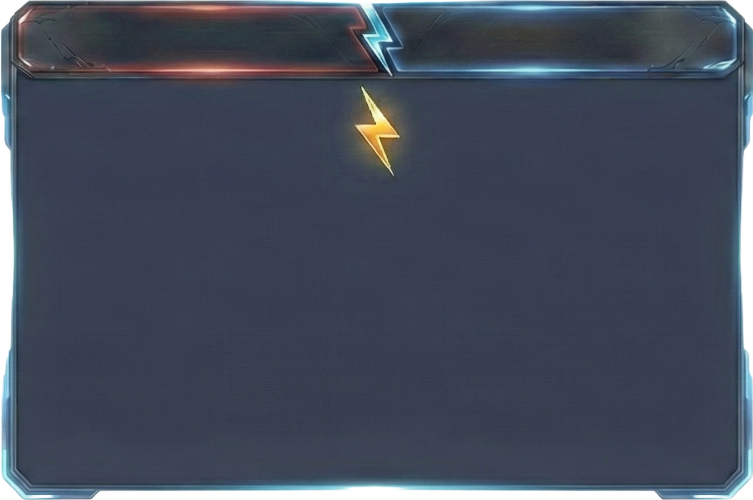
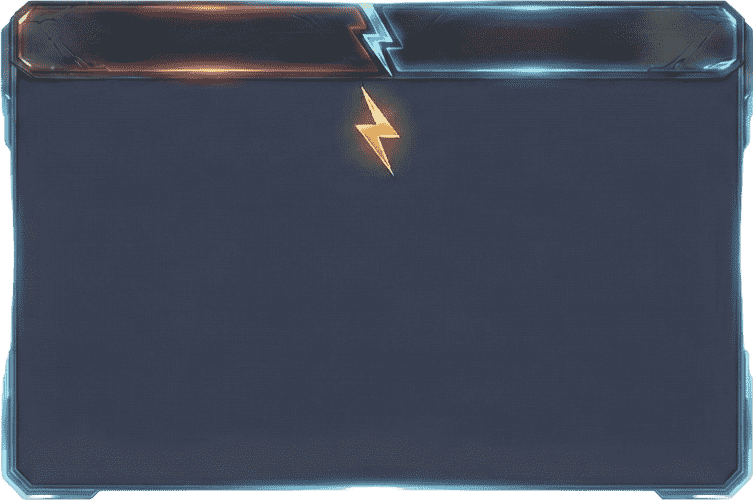
结果页继续美化

diff --git a/src/scenes/ResultScene.js b/src/scenes/ResultScene.js
@@ -59,7 +59,7 @@ export default class ResultScene extends BaseScene {
         AccountMgr.sync();
 
         // 2. 视觉构建
-        // A. 动态背景
+        // A. 动态背景 (使用胜/负专属球场图)
         this.createAtmosphere(designWidth, designHeight, isWin);
 
         // B. 主面板容器 (居中)
@@ -74,7 +74,7 @@ export default class ResultScene extends BaseScene {
         // D. 标题 (在面板上方)
         this.createHeader(designWidth, 120, isWin, winner);
 
-        // E. 星级 (在标题下方，面板上方)
+        // E. 星级 (在标题下方，面板上方，使用图片素材)
         this.createRatingStars(0, -370, rating); 
 
         // F. 数据统计与头部 (都在面板内部)
@@ -89,7 +89,7 @@ export default class ResultScene extends BaseScene {
             this.createRewards(0, rewardY, rewardCoins);
         }
 
-        // H. 按钮
+        // H. 按钮 (使用图片素材)
         this.createButtons(designWidth, designHeight, isWin);
 
         // I. 胜利特效
@@ -101,14 +101,43 @@ export default class ResultScene extends BaseScene {
     // --- 视觉构建方法 ---
 
     createAtmosphere(w, h, isWin) {
-        // 1. 深色底图
-        const bg = new PIXI.Graphics();
-        bg.beginFill(0x111111);
-        bg.drawRect(0, 0, w, h);
-        bg.endFill();
-        this.container.addChild(bg);
+        // 1. 根据胜负选择全屏背景
+        const bgKey = isWin ? 'bg_result_victory' : 'bg_result_failed';
+        let bgTex = ResourceManager.get(bgKey);
+        
+        // 如果特定背景加载失败，尝试回退到之前的通用背景(如果有)
+        if (!bgTex) bgTex = ResourceManager.get('bg_result_field');
 
-        // 2. 放射光 (聚光灯)
+        if (bgTex) {
+            const bg = new PIXI.Sprite(bgTex);
+            bg.anchor.set(0.5);
+            bg.position.set(w / 2, h / 2);
+            
+            // Cover 模式适配：优先填满
+            // 比例取 max(屏宽/图宽, 屏高/图高)
+            const scale = Math.max(w / bg.texture.width, h / bg.texture.height);
+            bg.scale.set(scale);
+            
+            this.container.addChild(bg);
+        } else {
+            // 兜底纯色
+            const bg = new PIXI.Graphics();
+            bg.beginFill(0x1a1a1a);
+            bg.drawRect(0, 0, w, h);
+            bg.endFill();
+            this.container.addChild(bg);
+        }
+
+        // 2. 黑色遮罩 (压暗背景，让面板突出)
+        // 失败时可以让背景稍微暗一点，胜利时亮一点
+        const overlayAlpha = isWin ? 0.6 : 0.75;
+        const overlay = new PIXI.Graphics();
+        overlay.beginFill(0x000000, overlayAlpha); 
+        overlay.drawRect(0, 0, w, h);
+        overlay.endFill();
+        this.container.addChild(overlay);
+
+        // 3. 放射光 (聚光灯效果)
         const glowColor = isWin ? 0xF1C40F : 0x34495e; // 胜:金, 负:深蓝
         const glowCircle = new PIXI.Graphics();
         glowCircle.beginFill(glowColor, 0.4);
@@ -191,48 +220,61 @@ export default class ResultScene extends BaseScene {
     createRatingStars(x, y, rating) {
         const starContainer = new PIXI.Container();
         const starCount = 5;
-        const size = 45; 
+        const size = 90; // 星星显示大小
         const gap = 15;
         
         const fullStars = Math.floor(rating / 2);
         const hasHalf = (rating % 2) >= 1;
 
-        const totalW = starCount * (size * 2 + gap) - gap;
-        let startX = -totalW / 2 + size;
+        const totalW = starCount * (size + gap) - gap;
+        let startX = -totalW / 2 + size / 2;
+
+        const fullTex = ResourceManager.get('icon_star_full');
+        const halfTex = ResourceManager.get('icon_star_half');
 
         for (let i = 0; i < starCount; i++) {
-            const starX = startX + i * (size * 2 + gap);
+            const starX = startX + i * (size + gap);
             
-            const bg = this.drawStar(0x333333, size, true);
-            bg.position.set(starX, 0);
-            starContainer.addChild(bg);
+            // 1. 底图：未激活的星星 (深色)
+            if (fullTex) {
+                const bgStar = new PIXI.Sprite(fullTex);
+                bgStar.anchor.set(0.5);
+                bgStar.width = size;
+                bgStar.height = size;
+                bgStar.tint = 0x333333; // 压黑
+                bgStar.position.set(starX, 0);
+                starContainer.addChild(bgStar);
+            } else {
+                // 兜底绘制
+                const bg = new PIXI.Graphics().beginFill(0x333333).drawCircle(0,0,size/2).endFill();
+                bg.position.set(starX, 0);
+                starContainer.addChild(bg);
+            }
 
-            let fillType = 'none'; 
-            if (i < fullStars) fillType = 'full';
-            else if (i === fullStars && hasHalf) fillType = 'half';
+            // 2. 激活的星星 (金色)
+            let starSprite = null;
+            if (i < fullStars) {
+                if (fullTex) starSprite = new PIXI.Sprite(fullTex);
+            } else if (i === fullStars && hasHalf) {
+                if (halfTex) starSprite = new PIXI.Sprite(halfTex);
+            }
 
-            if (fillType !== 'none') {
-                const fill = this.drawStar(0xFFD700, size, false);
-                fill.position.set(starX, 0);
-                
-                if (fillType === 'half') {
-                    const mask = new PIXI.Graphics();
-                    mask.beginFill(0xffffff);
-                    mask.drawRect(starX - size, -size, size, size * 2); 
-                    mask.endFill();
-                    fill.mask = mask;
-                    starContainer.addChild(mask);
-                }
-                starContainer.addChild(fill);
+            if (starSprite) {
+                starSprite.anchor.set(0.5);
+                starSprite.width = size;
+                starSprite.height = size;
+                starSprite.position.set(starX, 0);
+                starContainer.addChild(starSprite);
             }
         }
 
+        // 分数小胶囊
         const scoreBg = new PIXI.Graphics();
         scoreBg.beginFill(0x000000, 0.8);
         scoreBg.lineStyle(2, 0xFFD700);
         scoreBg.drawRoundedRect(0, 0, 90, 44, 22);
         scoreBg.endFill();
-        scoreBg.position.set(totalW/2 + 40, -22);
+        scoreBg.position.set(totalW/2 + 30, -22);
         
         const scoreText = new PIXI.Text(rating.toFixed(1), {
             fontSize: 30, fill: 0xFFD700, fontWeight: 'bold'
@@ -247,44 +289,8 @@ export default class ResultScene extends BaseScene {
         this.mainPanel.addChild(starContainer);
     }
 
-    drawStar(color, r, isOutline) {
-        const g = new PIXI.Graphics();
-        if (isOutline) {
-            g.lineStyle(4, 0x555555);
-            g.beginFill(0x222222);
-        } else {
-            g.beginFill(color);
-        }
-        
-        const spikes = 5;
-        const outerRadius = r;
-        const innerRadius = r * 0.45;
-        const cx = 0, cy = 0;
-        let rot = Math.PI / 2 * 3;
-        let step = Math.PI / spikes;
-
-        g.moveTo(cx, cy - outerRadius);
-        for (let i = 0; i < spikes; i++) {
-            let x = cx + Math.cos(rot) * outerRadius;
-            let y = cy + Math.sin(rot) * outerRadius;
-            g.lineTo(x, y);
-            rot += step;
-
-            x = cx + Math.cos(rot) * innerRadius;
-            y = cy + Math.sin(rot) * innerRadius;
-            g.lineTo(x, y);
-            rot += step;
-        }
-        g.lineTo(cx, cy - outerRadius);
-        g.closePath();
-        g.endFill();
-        return g;
-    }
-
     createScoreBoard(x, score, myId, oppId) {
         const container = new PIXI.Container();
-        
-        // [修改] 移除了原有的纯色背景条绘制，因为下方的统计框背景已经包含了对战条视觉元素
         const headerY = -260;
 
         // 2. 名字文本
@@ -299,10 +305,6 @@ export default class ResultScene extends BaseScene {
         const t2 = new PIXI.Text(p2Name, nameStyle);
         t2.anchor.set(0.5); t2.position.set(250, headerY);
         
-        // [修改] 移除了中间的闪电图标，因为背景图中已包含
-        // const lightning = new PIXI.Text('⚡', { fontSize: 40, fill: 0xFFD700 });
-        // lightning.anchor.set(0.5); lightning.position.set(0, headerY);
-
         container.addChild(t1, t2);
 
         // 3. 核心比分与头像
@@ -424,7 +426,6 @@ export default class ResultScene extends BaseScene {
         }
     }
 
-    // [新增] 技能行渲染 (图标x数量)
     renderSkillRow(container, y, skills1, skills2) {
         const label = new PIXI.Text('技能消耗', { fontSize: 28, fill: 0xcccccc });
         label.anchor.set(0.5); label.y = y;
@@ -546,7 +547,6 @@ export default class ResultScene extends BaseScene {
         this.mainPanel.addChild(container);
     }
 
-    // [新增] 专门用于展示解锁奖励的UI
     createUnlockDisplay(x, y, reward, coins) {
         const container = new PIXI.Container();
         container.position.set(x, y);
@@ -630,15 +630,12 @@ export default class ResultScene extends BaseScene {
 
         let leftText = '返回主页';
         let leftAction = () => SceneManager.changeScene(MenuScene);
-        let leftColor = 0x7f8c8d;
-
+        
         let rightText = "再来一局";
         let rightAction = () => SceneManager.changeScene(GameScene, { mode: this.params.gameMode });
-        let rightColor = 0x27ae60;
-
+        
         if (this.params.gameMode === 'pvp_online') {
             leftText = '结束游戏';
-            leftColor = 0xc0392b; 
             leftAction = () => {
                 NetworkMgr.send({ type: NetMsg.LEAVE });
                 NetworkMgr.close();
@@ -647,7 +644,6 @@ export default class ResultScene extends BaseScene {
             };
 
             rightText = '再来一局';
-            rightColor = 0x27ae60;
             rightAction = () => {
                 SceneManager.changeScene(RoomScene, { roomId: this.params.roomId, autoReady: true });
             };
@@ -656,23 +652,26 @@ export default class ResultScene extends BaseScene {
             if (isWin) {
                 rightText = "下一关";
                 rightAction = () => SceneManager.changeScene(GameScene, { mode: 'pve', level: this.params.currentLevel + 1 });
-                rightColor = 0xF39C12;
             } else {
                 rightText = "重新挑战";
                 rightAction = () => SceneManager.changeScene(GameScene, { mode: 'pve', level: this.params.currentLevel });
-                rightColor = 0x3498db;
             }
         }
 
+        // 使用图片背景
         const menuBtn = new Button({
-            text: leftText, width: btnW, height: btnH, color: leftColor,
+            text: leftText, 
+            texture: ResourceManager.get('btn_result_end'),
+            width: btnW, height: btnH,
             onClick: leftAction
         });
         menuBtn.position.set(startX, btnY - btnH/2);
         this.container.addChild(menuBtn);
 
         const nextBtn = new Button({
-            text: rightText, width: btnW, height: btnH, color: rightColor,
+            text: rightText,
+            texture: ResourceManager.get('btn_result_continue'),
+            width: btnW, height: btnH,
             onClick: rightAction
         });
         nextBtn.position.set(startX + btnW + gap, btnY - btnH/2);

diff --git a/src/managers/ResourceManager.js b/src/managers/ResourceManager.js
@@ -33,6 +33,15 @@ class ResourceManager {
       // [新增] 结果页素材
       result_bg: 'remote:result_bg.png', // 金属边框对话框
       result_content_bg: 'remote:result_content_bg.png', // 红蓝对战条
+      bg_result_field: 'remote:pure_field_bg.png', // [保留] 备用通用背景
+      bg_result_victory: 'remote:victory_field_bg.png', // [新增] 胜利背景
+      bg_result_failed: 'remote:failed_field_bg.png',   // [新增] 失败背景
+
+      // 结果页按钮与图标
+      btn_result_end: 'assets/images/btn/result_end_btn.png',
+      btn_result_continue: 'assets/images/btn/result_continue_btn.png',
+      icon_star_full: 'assets/images/icon/full_star.png',
+      icon_star_half: 'assets/images/icon/half_star.png',
 
       // 菜单功能图标
       icon_social: 'assets/images/icon_social.png',

diff --git a/src/scenes/MenuScene.js b/src/scenes/MenuScene.js
@@ -331,8 +331,8 @@ export default class MenuScene extends BaseScene {
             "gameMode": "pve",
             "currentLevel": 2,
             "score": {
-                "0": 2,
-                "1": 0
+                "0": 1,
+                "1": 2
             },
             "stats": {
                 "0": {
